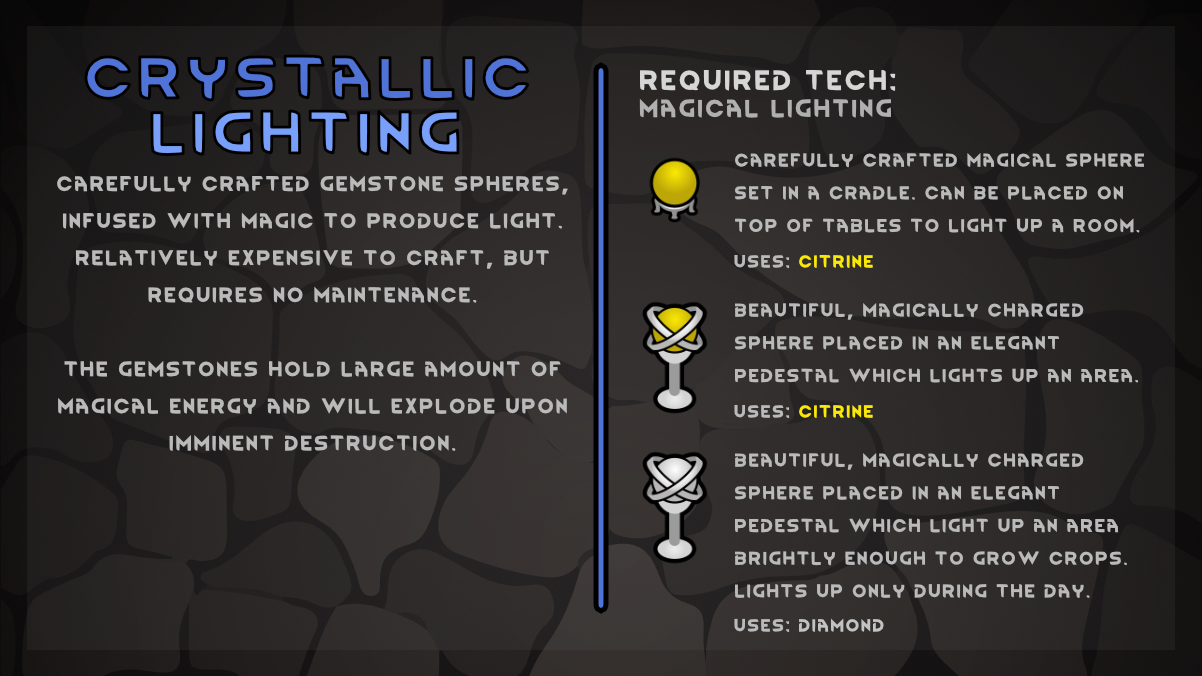
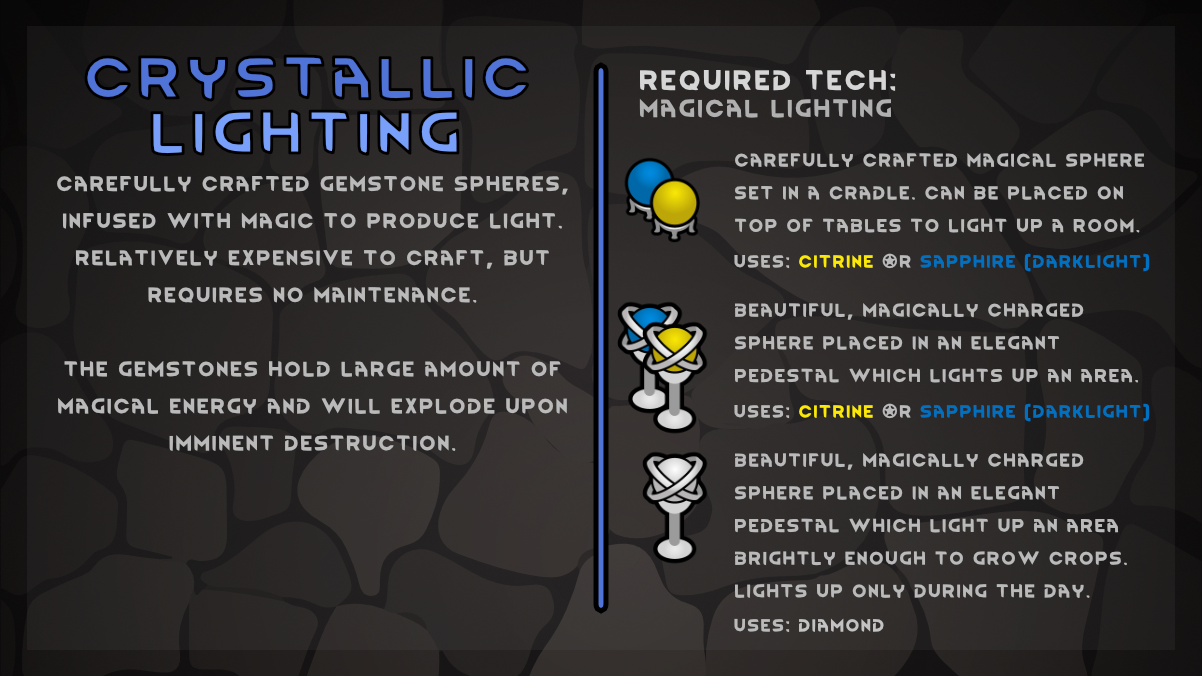
v1.1 Update

diff --git a/README.md b/README.md
@@ -37,4 +37,4 @@ Steve o.O for his assistance in brainstorming texture issues.
 -[New] Darklight lamp. (v1.1)
 -[New] Darklight pedestal. (v1.1)
 -[Change] Sunstone pedestal heatPerSecond reduced from 3 to 2. (v1.1)
--[Change] Glowstone pedestal heatPerSecond reduced from 2 to 1.5. (v1.1)
+-[Change] Glowstone pedestal heatPerSecond reduced from 2 to 1. (v1.1)
